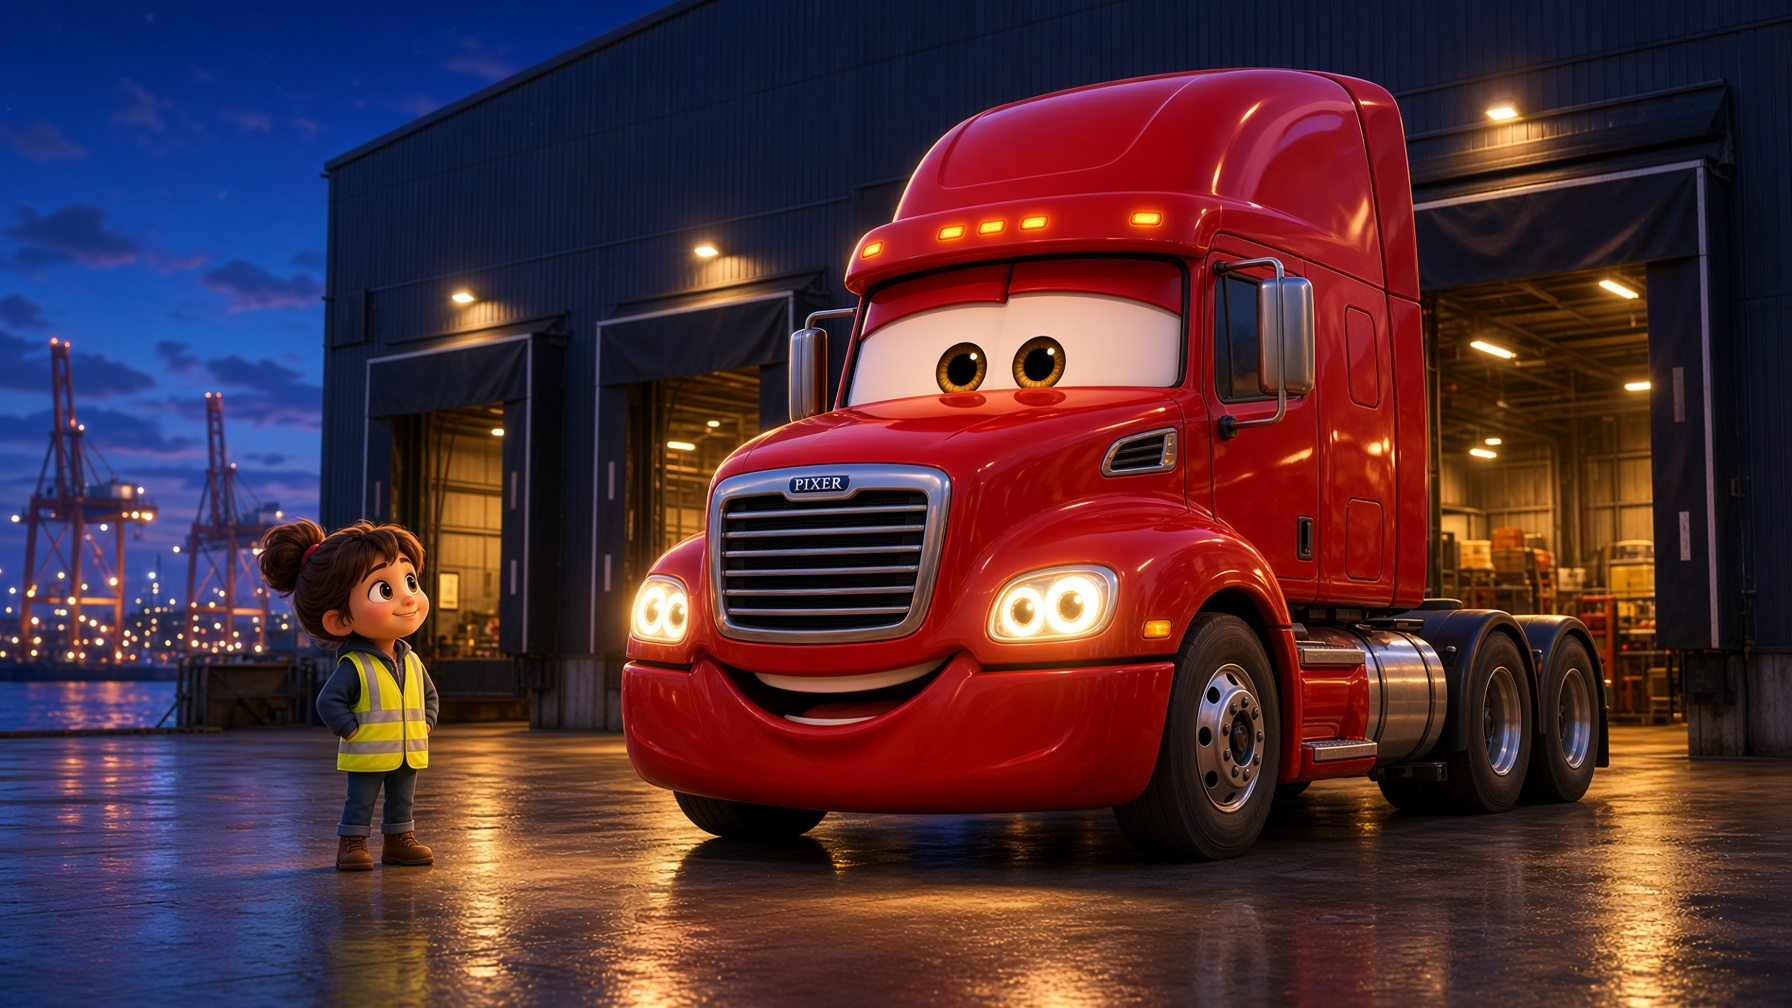
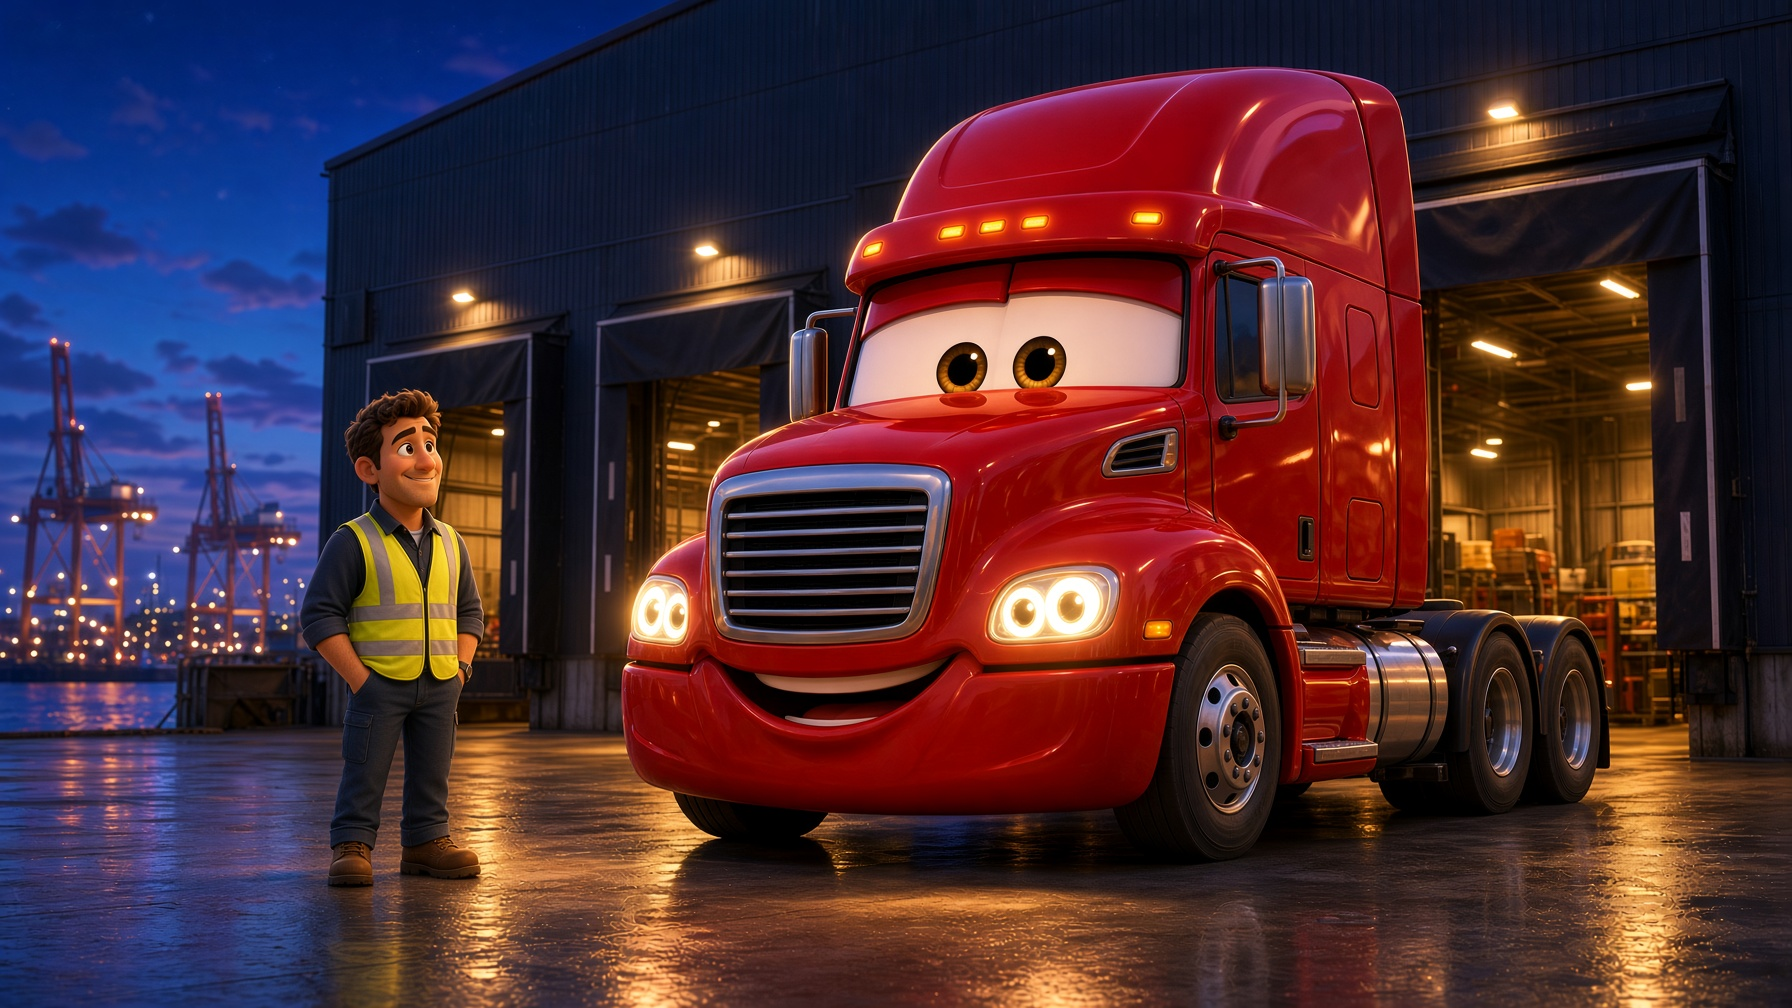
Clean the hero truck grille and use an adult worker

diff --git a/src/lib/site.ts b/src/lib/site.ts
@@ -64,7 +64,7 @@ export const services: Service[] = [
     eyebrow: "Bestände steuern",
     teaser:
       "Fachboden, Palette, Blocklager – eingerichtet auf Ihre Artikelstruktur, nicht umgekehrt.",
-    image: "/images/warehouse-aisle.jpg?v=2",
+    image: "/images/warehouse-aisle.jpg?v=3",
     imageAlt: "Schmalganglager im ULD-Fulfillment-Lager im Hamburger Hafen",
     lead: "Ihre Ware liegt im Hamburger Hafen. Scanbasiert, zonenklar, jederzeit auskunftsfähig.",
     body: [
@@ -86,7 +86,7 @@ export const services: Service[] = [
     eyebrow: "Aufträge umsetzen",
     teaser:
       "Einzelstück, Karton oder Palette – kommissioniert, geprüft, versandfertig. Am selben Tag.",
-    image: "/images/pick-pack.jpg?v=2",
+    image: "/images/pick-pack.jpg?v=3",
     imageAlt:
       "Pick-and-Pack-Station: Kommissionierung und Versandfertigmachen bei ULD Hamburg",
     lead: "Jede Bestellung wird scanbasiert kommissioniert und nach Ihren Packregeln versandfertig gemacht.",
@@ -109,7 +109,7 @@ export const services: Service[] = [
     eyebrow: "Zustellung steuern",
     teaser:
       "Carrier nach Laufzeit und Kosten. Tracking zurück in Ihren Shop. Europaweit ab Hamburg.",
-    image: "/images/outbound.jpg?v=2",
+    image: "/images/outbound.jpg?v=3",
     imageAlt:
       "ULD-Fulfillment im Hamburger Hafen: Sattelzüge vor der Halle, Containerbrücken und Terminal im Hintergrund",
     lead: "Vom Packplatz an die Rampe, vom Hafen in die Fläche – mit festen Zeitfenstern und klarem Tracking.",
@@ -132,7 +132,7 @@ export const services: Service[] = [
     eyebrow: "Ware zurückführen",
     teaser:
       "Annahme, Prüfung, Wiedereinlagerung. Damit Retouren kein blinder Fleck in Ihrer Marge bleiben.",
-    image: "/images/returns.jpg?v=2",
+    image: "/images/returns.jpg?v=3",
     imageAlt: "Retourenbearbeitung bei ULD: Prüfung und Wiedereinlagerung im Hamburger Lager",
     lead: "Retouren nehmen wir strukturiert an, prüfen Zustand und Inhalt und führen einlagerungsfähige Ware kontrolliert zurück.",
     body: [
@@ -154,7 +154,7 @@ export const services: Service[] = [
     eyebrow: "Ware vorbereiten",
     teaser:
       "Umpacken, Etikettieren, Displays, Sets. Damit Kampagnen ohne Extra-Umlagerung starten.",
-    image: "/images/kitting.jpg?v=2",
+    image: "/images/kitting.jpg?v=3",
     imageAlt: "Kitting und Konfektionierung: Setbildung am Arbeitstisch im ULD-Lager Hamburg",
     lead: "Konfektionierung sitzt bei uns im Prozess – nicht in einem zweiten Lager am anderen Ende der Stadt.",
     body: [
@@ -176,7 +176,7 @@ export const services: Service[] = [
     eyebrow: "Ware hereinholen",
     teaser:
       "Container vom Terminal ins eigene Zolllager. Verzollen, wenn Sie wollen – nicht wenn der Hafen drängt.",
-    image: "/images/customs.jpg?v=2",
+    image: "/images/customs.jpg?v=3",
     imageAlt: "Containerterminal im Hamburger Hafen mit Anschluss an das ULD-Zolllager",
     lead: "Mit eigenem Zolllager im Hamburger Hafen senken Sie Terminalkosten und behalten den Takt.",
     body: [

diff --git a/src/routes/standort.tsx b/src/routes/standort.tsx
@@ -29,7 +29,7 @@ function Standort() {
         eyebrow={p.eyebrow}
         title={p.title}
         lead={interpolate(p.lead, { address: company.address, zip: company.zip })}
-        image="/images/hamburg-port.jpg?v=2"
+        image="/images/hamburg-port.jpg?v=3"
         imageAlt={p.imageAlt}
         crumbs={[
           { label: t.nav.home, href: "/" },
@@ -40,7 +40,7 @@ function Standort() {
       <section className="bg-cream">
         <div className="grid md:grid-cols-2">
           <AiImage
-            src="/images/customs.jpg?v=2"
+            src="/images/customs.jpg?v=3"
             alt={p.customsAlt}
             wrapperClassName="h-72 w-full md:h-full"
             className="size-full object-cover"
@@ -67,7 +67,7 @@ function Standort() {
         <div className="mx-auto grid max-w-7xl gap-10 px-5 md:grid-cols-2 md:px-8">
           <BrandBox size="lg">
             <AiImage
-              src="/images/inbound.jpg?v=2"
+              src="/images/inbound.jpg?v=3"
               alt={p.inboundAlt}
               className="h-80 w-full object-cover"
             />

diff --git a/src/routes/index.tsx b/src/routes/index.tsx
@@ -35,7 +35,7 @@ function Hero() {
   return (
     <section className="relative min-h-[100svh] overflow-hidden bg-navy-mid text-cream">
       <img
-        src="/images/hero-dock.jpg?v=2"
+        src="/images/hero-dock.jpg?v=3"
         alt={t.home.heroAlt}
         className="absolute inset-0 size-full object-cover object-[70%_center]"
       />
@@ -152,7 +152,7 @@ function Split() {
     <section className="bg-navy text-cream">
       <div className="grid md:grid-cols-2">
         <div className="relative min-h-[320px] md:min-h-[560px]">
-          <AiImage fill src="/images/warehouse-aisle.jpg?v=2" alt={t.home.splitAlt} />
+          <AiImage fill src="/images/warehouse-aisle.jpg?v=3" alt={t.home.splitAlt} />
         </div>
         <div className="relative flex flex-col justify-center overflow-hidden px-5 py-16 md:px-16 md:py-24">
           <span

diff --git a/src/routes/ablauf.tsx b/src/routes/ablauf.tsx
@@ -28,7 +28,7 @@ function Ablauf() {
         eyebrow={p.eyebrow}
         title={p.title}
         lead={p.lead}
-        image="/images/warehouse-aisle.jpg?v=2"
+        image="/images/warehouse-aisle.jpg?v=3"
         imageAlt={p.imageAlt}
         crumbs={[
           { label: t.nav.home, href: "/" },
@@ -55,7 +55,7 @@ function Ablauf() {
           <div className="mt-16">
             <BrandBox size="lg">
               <AiImage
-                src="/images/ops-manager.jpg?v=2"
+                src="/images/ops-manager.jpg?v=3"
                 alt={p.teamAlt}
                 className="aspect-video w-full object-cover"
               />

diff --git a/src/routes/kontakt.tsx b/src/routes/kontakt.tsx
@@ -28,7 +28,7 @@ function Kontakt() {
         eyebrow={p.eyebrow}
         title={p.title}
         lead={p.lead}
-        image="/images/inbound.jpg?v=2"
+        image="/images/inbound.jpg?v=3"
         imageAlt={p.imageAlt}
         crumbs={[
           { label: t.nav.home, href: "/" },
@@ -76,7 +76,7 @@ function Kontakt() {
 
             <BrandBox>
               <AiImage
-                src="/images/wms.jpg?v=2"
+                src="/images/wms.jpg?v=3"
                 alt={p.officeAlt}
                 wrapperClassName="mt-10 hidden md:block"
                 className="h-56 w-full object-cover"

diff --git a/src/routes/ueber-uns.tsx b/src/routes/ueber-uns.tsx
@@ -28,7 +28,7 @@ function About() {
         eyebrow={p.eyebrow}
         title={p.title}
         lead={p.lead}
-        image="/images/ops-manager.jpg?v=2"
+        image="/images/ops-manager.jpg?v=3"
         imageAlt={p.imageAlt}
         crumbs={[
           { label: t.nav.home, href: "/" },
@@ -54,7 +54,7 @@ function About() {
           </div>
           <BrandBox size="lg">
             <AiImage
-              src="/images/wms.jpg?v=2"
+              src="/images/wms.jpg?v=3"
               alt={p.officeAlt}
               className="h-[28rem] w-full object-cover object-top"
             />

diff --git a/src/routes/andreas-heffter.tsx b/src/routes/andreas-heffter.tsx
@@ -37,7 +37,7 @@ function AndreasHeffter() {
     <main>
       <section className="relative overflow-hidden bg-navy-mid pt-[4.5rem] md:pt-[5.5rem]">
         <AiImage
-          src="/images/uld-dynamic.png?v=2"
+          src="/images/uld-dynamic.png?v=3"
           alt="ULD-Lager: Scanvorgang im Schmalgang – Andreas Heffter, Warehouse Manager"
           className="aspect-[16/9] w-full object-cover object-center md:aspect-[21/9] md:max-h-[70vh]"
         />

diff --git a/src/routes/yasam-seyhan.tsx b/src/routes/yasam-seyhan.tsx
@@ -33,7 +33,7 @@ function YasamSeyhan() {
     <main>
       <section className="relative overflow-hidden bg-navy-mid pt-[4.5rem] md:pt-[5.5rem]">
         <AiImage
-          src="/images/uld-dynamic.png?v=2"
+          src="/images/uld-dynamic.png?v=3"
           alt="ULD-Lager: Scanvorgang im Schmalgang – Yasam Seyhan, ULD Fulfillment"
           className="aspect-[16/9] w-full object-cover object-center md:aspect-[21/9] md:max-h-[70vh]"
         />

diff --git a/src/routes/leistungen/index.tsx b/src/routes/leistungen/index.tsx
@@ -27,7 +27,7 @@ function Leistungen() {
         eyebrow={p.eyebrow}
         title={p.title}
         lead={p.lead}
-        image="/images/pick-pack.jpg?v=2"
+        image="/images/pick-pack.jpg?v=3"
         imageAlt={p.imageAlt}
         crumbs={[
           { label: t.nav.home, href: "/" },
